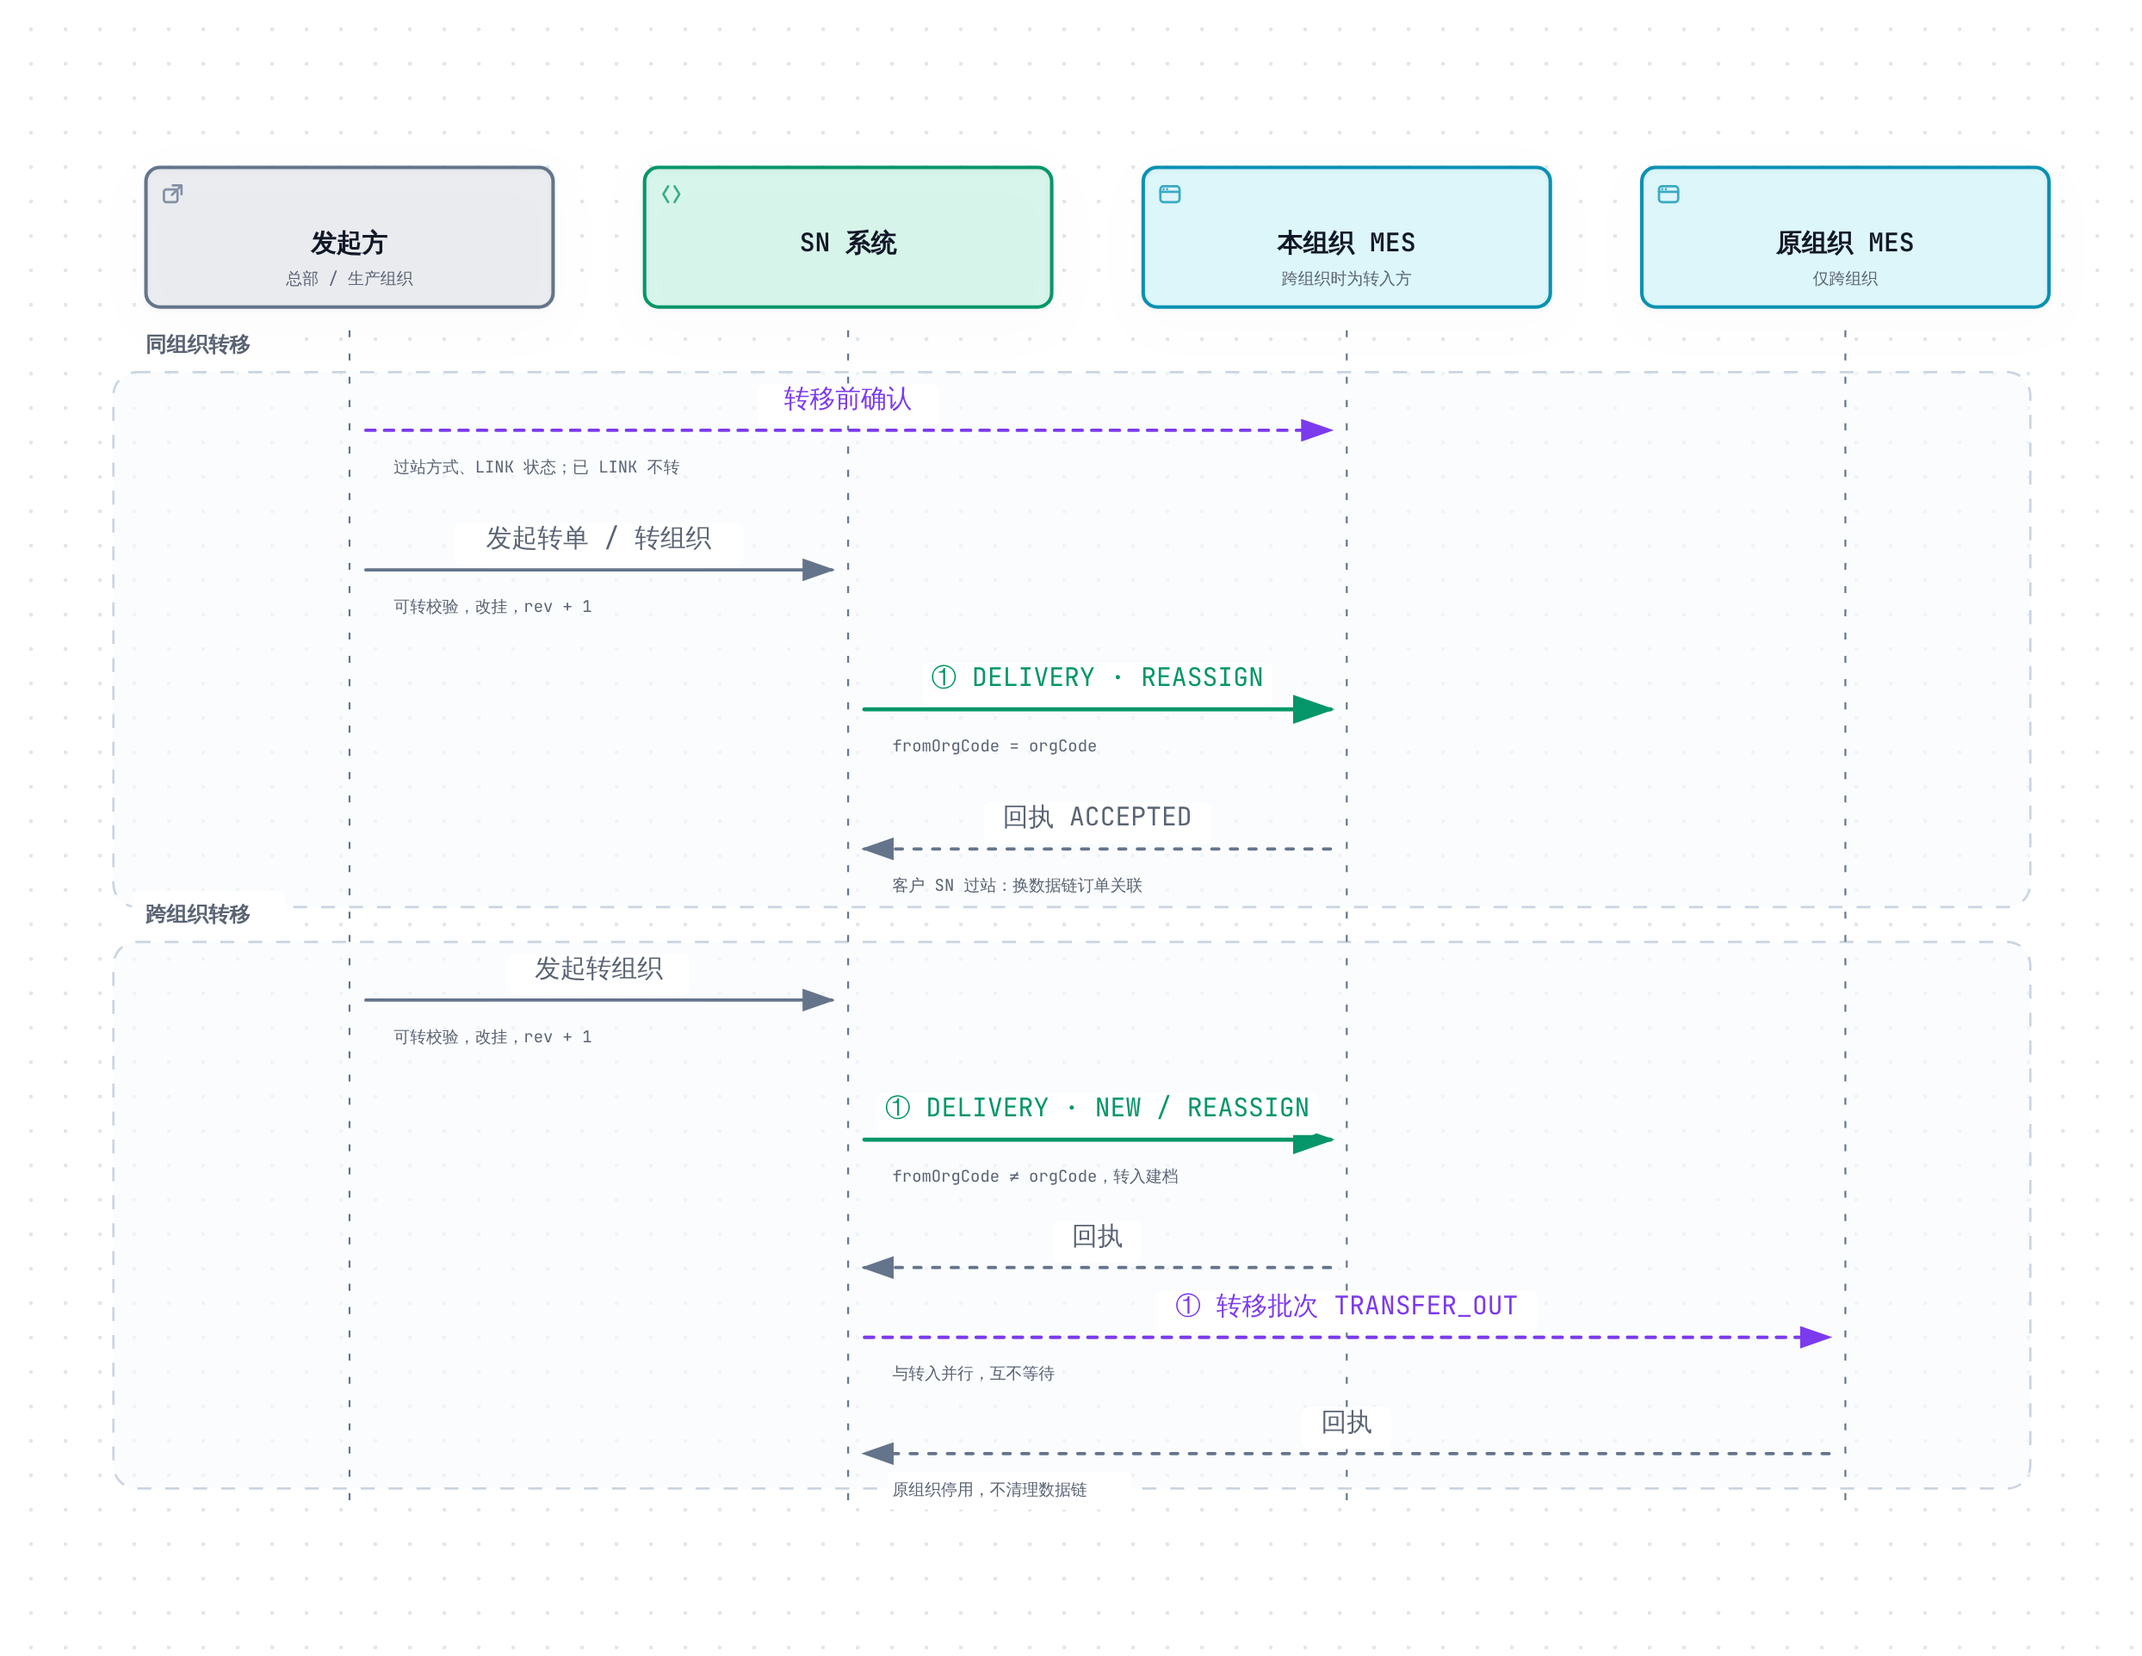
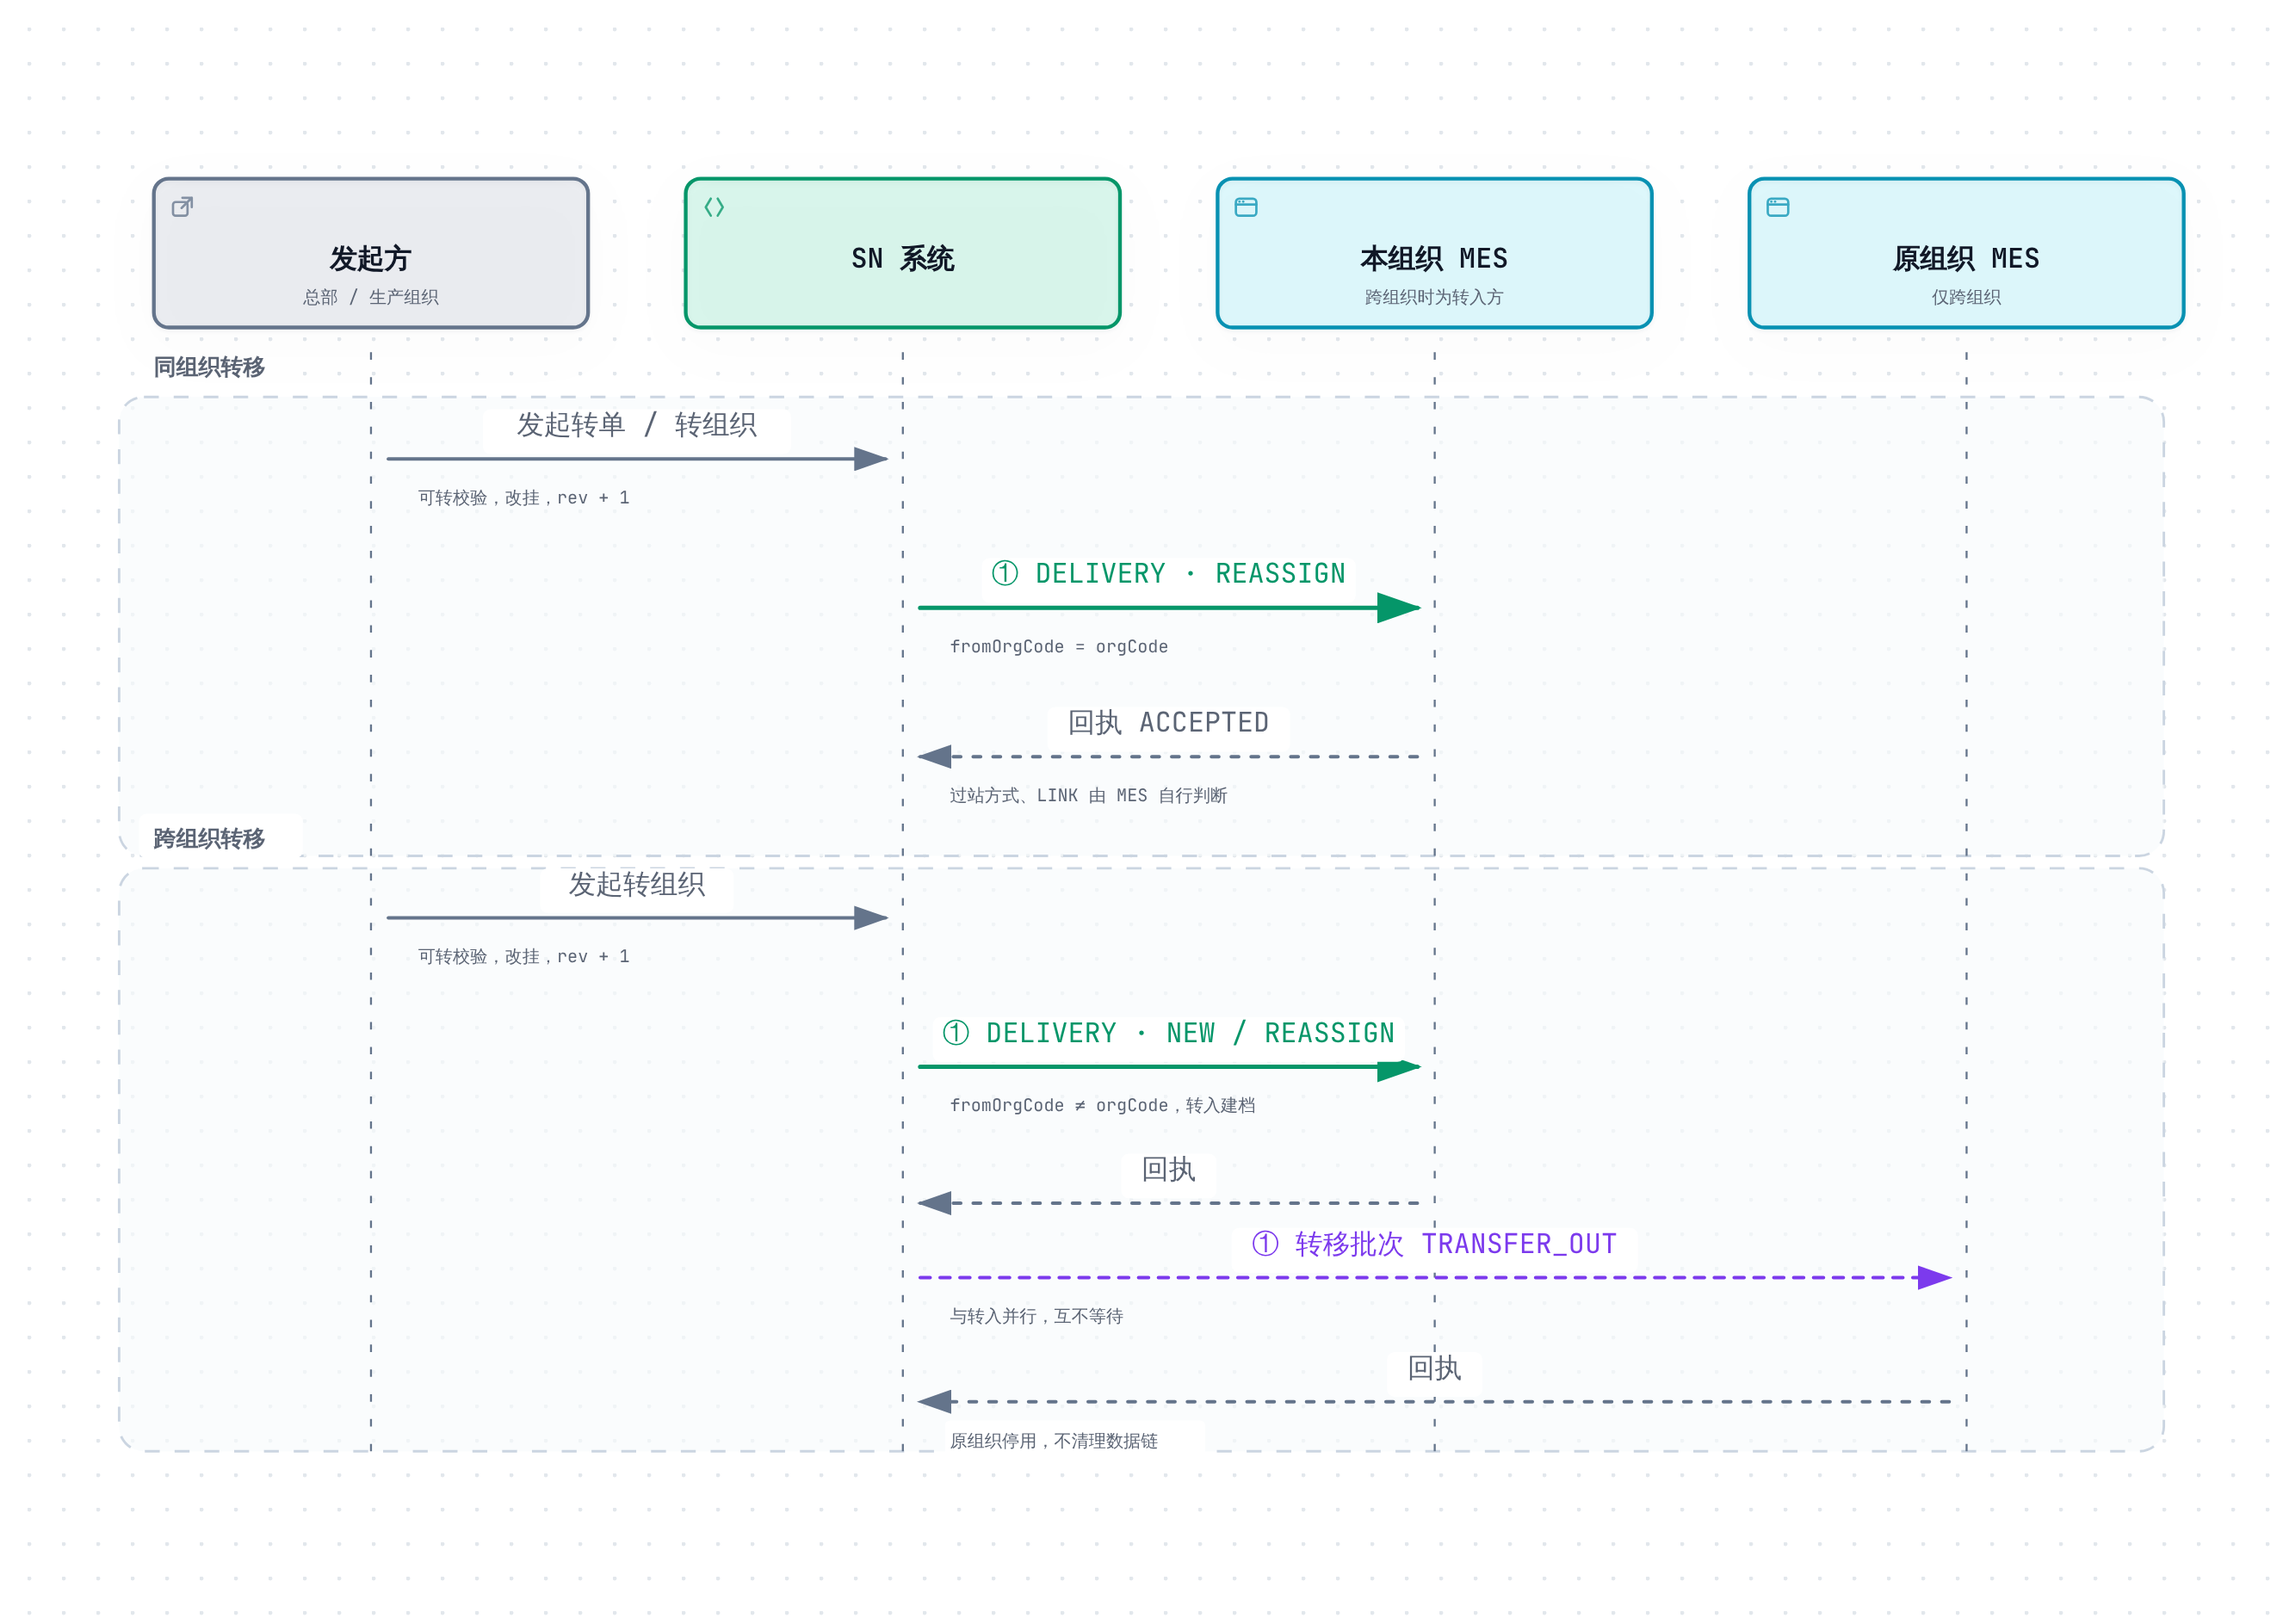
MES 对接说明：同组织转移改为 MES 自行判断，不关联 SN 系统
- 5.3「同组织转移」去掉会议决策标注；过站方式、LINK 状态由 MES 自行判断和处理，
  SN 系统不感知、不校验、不等待；去掉「现场在发起转移前于 MES 确认」
- 图 5-3 改为 MES 侧自行判断流程；转移交互时序去掉「转移前确认」
- 跨组织转移标题同步去掉会议决策标注

Claude-Session: https://claude.ai/code/session_01EjD44Kc9tYwnjb7xoAZdxx

diff --git a/docs/SN 防重管控 · MES 对接说明（精简版）.md b/docs/SN 防重管控 · MES 对接说明（精简版）.md
@@ -205,7 +205,7 @@ MES 收到的批次按 `batchType` 分为三类；推送批次和拉取批次的
       "pushType": "TRANSFER_OUT",      // 固定值
       "sn": "HX100000003A",
       "rev": 3,                        // 版本比对
-      "from": {"pi": "000001", "billNo": "VT2026090001", "billSeq": 1} // 本地没有这个 SN时按转移前的挂靠建档
+      "from": {"pi": "000001", "billNo": "VT2026090001", "billSeq": 1} // 本地没有这个 SN 时按转移前的挂靠建档
     }
   ]
 }
@@ -294,16 +294,18 @@ MES 收到的批次按 `batchType` 分为三类；推送批次和拉取批次的
 | `fromOrgCode` ≠ `orgCode` | 跨组织转入 | 原组织 MES 曾持有：`REASSIGN`，否则 `NEW`；本地均不存在，按新号建档 |
 | `batchType = TRANSFER_OUT` | 跨组织转移（原组织） | 转移批次，仅发给曾持有该 SN的原组织 MES |
 
-**同组织转移**（10 月 MES 对接会议决策）
+**同组织转移**
 
-![图 5-3 同组织转移前确认](images/MES对接说明/f4-same-org.png)
+![图 5-3 同组织转移：MES 自行判断](images/MES对接说明/f4-same-org.png)
 
-1. **客户 SN 过站**：允许转移。MES 接收 `REASSIGN` 后须将该 SN 整条数据链的订单关联切换到新订单；存在数据混乱风险，由 MES 自行控制
-2. **内部 SN 过站**：客户 SN **已 LINK 的不允许转移**，未 LINK 的直接转移
+过站方式、LINK 状态**由 MES 自行判断和处理，不关联 SN 系统**：SN 系统不感知、不校验，也不等待 MES 判断结果。MES 收到 `REASSIGN` 后按版本比对正常接收（`ACCEPTED`），回执中没有「拒绝转移」选项，之后按以下规则自行处理：
 
-SN 系统不掌握过站方式与 LINK 状态，「已 LINK 不转」由**现场在发起转移前于 MES 确认**。转移一经发生，MES 收到的 `REASSIGN` 按版本比对正常接收（`ACCEPTED`），回执中没有「拒绝转移」选项。
+1. **客户 SN 过站**：允许转移。MES 将该 SN 整条数据链的订单关联切换到新订单；存在数据混乱风险，由 MES 自行控制
+2. **内部 SN 过站**：客户 SN **已 LINK 的不允许转移**，由 MES 自行处理；未 LINK 的直接转移
 
-**跨组织转移**（会议决策：直接同步到新组织订单，**不考虑原组织 MES 的 SN 数据**）
+**跨组织转移**
+
+直接同步到新组织订单，**不考虑原组织 MES 的 SN 数据**：
 
 - **转入建档**：新组织 MES 本地无此 SN，按收到的挂靠建档，无需与原组织核对
 - **原组织停用**：原组织 MES 无需同步、回滚或清理原数据链，只按转移批次标记「已转走」并停止打标，防止两个工厂使用同一 SN
@@ -525,7 +527,7 @@ SN 系统不掌握过站方式与 LINK 状态，「已 LINK 不转」由**现场
       "serial": "000003",              // 必填，String，流水号
       "serialDec": "3",                // 必填，String，十进制流水
       "serialPi": "000001",            // 必填，String，流水最初所属 PI
-      "from": {                        // 必填，Object，转移前的挂靠 ★ 本地没有这个 SN时按它建档；不要推测转移后的信息
+      "from": {                        // 必填，Object，转移前的挂靠 ★ 本地没有这个 SN 时按它建档；不要推测转移后的信息
         "pi": "000001",                // 必填，String，原 PI
         "billNo": "VT2026090001",      // 必填，String，原单据号
         "billSeq": 1,                  // 必填，Number，原单据行号
